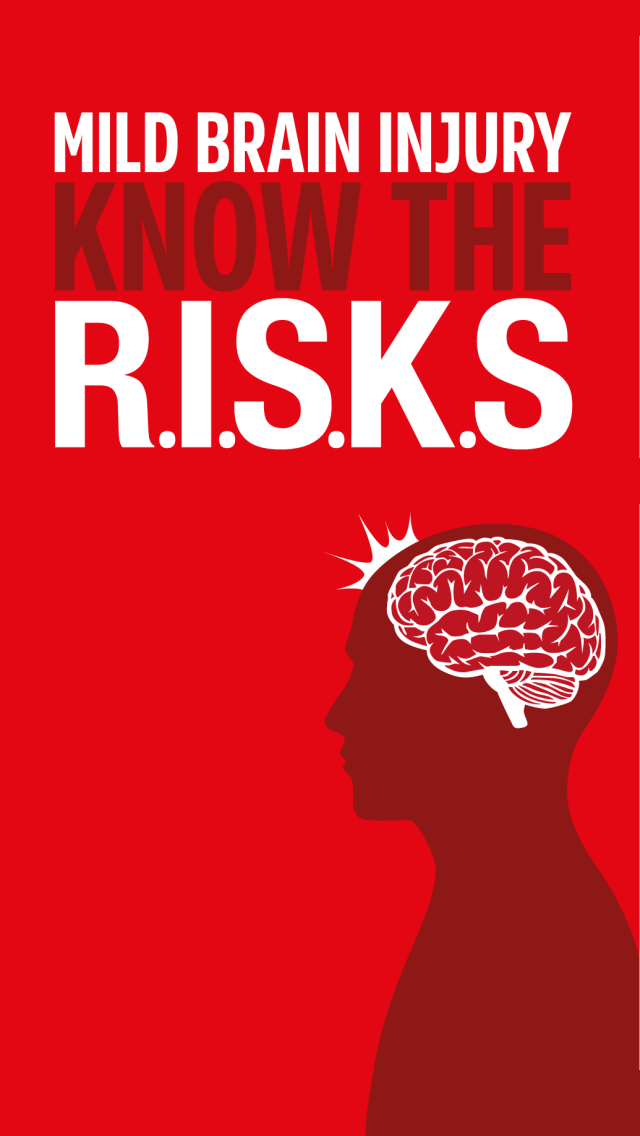
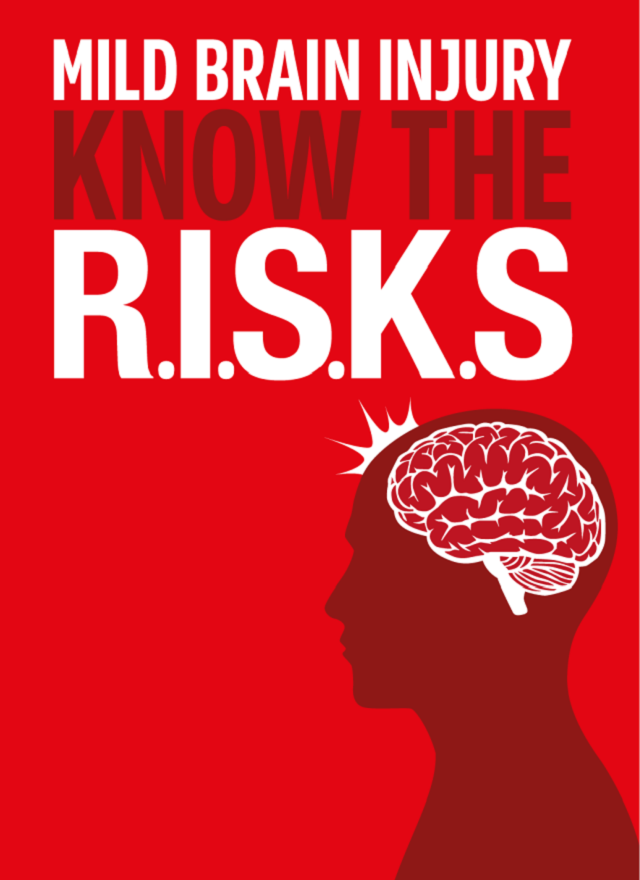
Images for 3.5 inch and 4 inch devices

Changed region(s): [[0.0625, 0.0307, 0.9062, 0.4295], [0.5, 0.4602, 1.0, 1.0]]

diff --git a/Monotouch/RisksApp/RisksApp/HomeViewController.cs b/Monotouch/RisksApp/RisksApp/HomeViewController.cs
@@ -15,16 +15,26 @@ namespace RisksApp
 		{
 			// Releases the view if it doesn't have a superview.
 			base.DidReceiveMemoryWarning ();
-			
 			// Release any cached data, images, etc that aren't in use.
 		}
 
 		public override void ViewDidLoad ()
 		{
 			base.ViewDidLoad ();
-			
+		
+			if(UIScreen.MainScreen.Bounds.Height == 568)
+				((UIImageView)ImageView).Image = UIImage.FromBundle ("Images/home-586h@2x.png");
+			else 
+				((UIImageView)ImageView).Image = UIImage.FromBundle ("Images/home@2x.png");
+				
 			// Perform any additional setup after loading the view, typically from a nib.
             SlideInAnimation();
+		}
+
+		public override void ViewWillLayoutSubviews ()
+		{	ImageView.Frame = new RectangleF (new PointF (0, 0), new SizeF(ImageView.Bounds.Size.Width, UIScreen.MainScreen.Bounds.Height-40));
+			GroupView.Frame = new RectangleF (0, UIScreen.MainScreen.Bounds.Height - (40 + GroupView.Bounds.Height), GroupView.Bounds.Width, GroupView.Bounds.Height);
+			base.ViewWillLayoutSubviews ();
 		}
 
         private void SlideInAnimation() {

diff --git a/Monotouch/RisksApp/RisksApp/HomeViewController.designer.cs b/Monotouch/RisksApp/RisksApp/HomeViewController.designer.cs
@@ -13,6 +13,12 @@ namespace RisksApp
 	partial class HomeViewController
 	{
 		[Outlet]
+		MonoTouch.UIKit.UIView GroupView { get; set; }
+
+		[Outlet]
+		MonoTouch.UIKit.UIView ImageView { get; set; }
+
+		[Outlet]
 		MonoTouch.UIKit.UIView InformLabel { get; set; }
 
 		[Outlet]
@@ -32,6 +38,16 @@ namespace RisksApp
 		
 		void ReleaseDesignerOutlets ()
 		{
+			if (ImageView != null) {
+				ImageView.Dispose ();
+				ImageView = null;
+			}
+
+			if (GroupView != null) {
+				GroupView.Dispose ();
+				GroupView = null;
+			}
+
 			if (InformLabel != null) {
 				InformLabel.Dispose ();
 				InformLabel = null;
